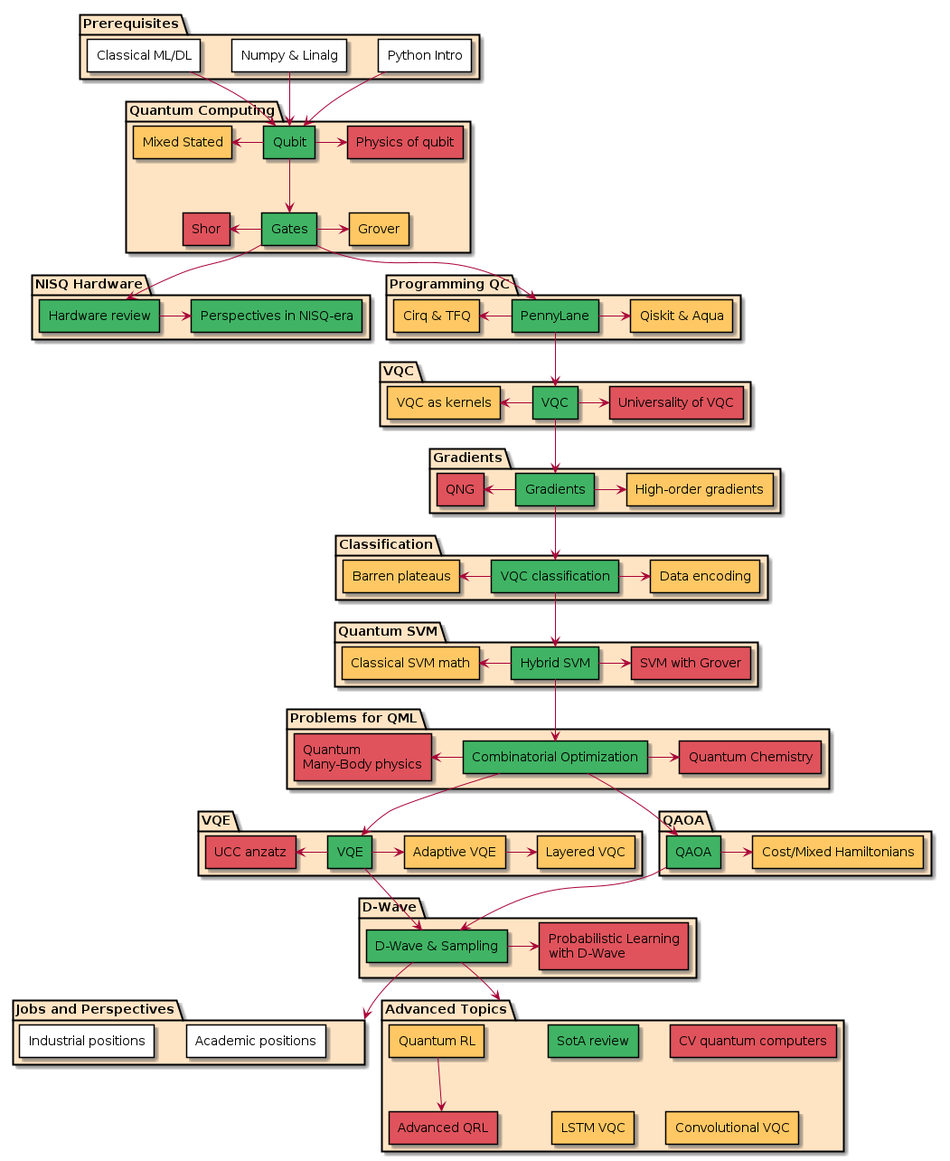
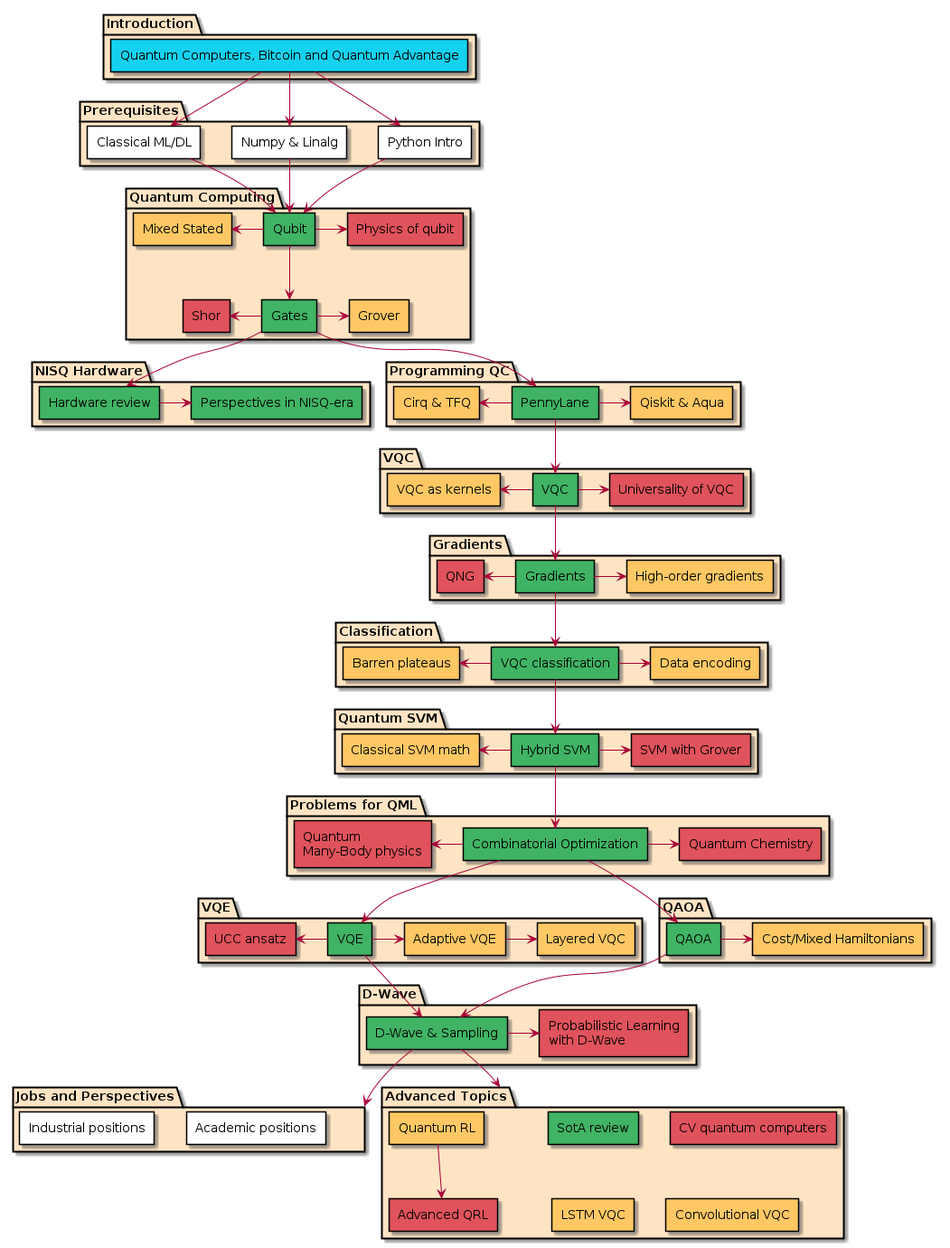
Add intro-lceture-1
Короче лекция должна быть чистым завлекаловом.
В теории, ее же хочется на Хабр, для раскрутки курса.

Я часто бываю на Хабре и слежу кто что спрашивает в комментах про "квантовые"
статьи. Ну и постарался собрать тут популярные ответы, а также максимально
завлечь людей.

По поводу цвета - голубой, так как серый смотрелся уныло. Но все обсуждаемо.

On branch semyonsinchenko-scipop-intro-1
Changes to be committed:

- modified:   qmlcourseRU/_static/index/program.plantuml
- modified:   qmlcourseRU/_static/index/program.png
- new file:   qmlcourseRU/_static/intro1block/intro1/Bitcoin.jpg
- new file:   qmlcourseRU/_static/intro1block/intro1/Feinman.jpg
- new file:   qmlcourseRU/_static/intro1block/intro1/Moores_Law.png
- new file:   qmlcourseRU/_static/intro1block/intro1/Preskill.jpg
- new file:   qmlcourseRU/_static/intro1block/intro1/Salesman.png
- new file:   qmlcourseRU/_static/intro1block/intro1/Schrodinger.jpg
- new file:   qmlcourseRU/_static/intro1block/intro1/quantum_computer.jpg
- modified:   qmlcourseRU/_toc.yml
- modified:   qmlcourseRU/book/acknowledgments.md
- new file:   qmlcourseRU/book/intro1block/intro1.md

diff --git a/qmlcourseRU/book/intro1block/intro1.md b/qmlcourseRU/book/intro1block/intro1.md
@@ -1,0 +1,180 @@
+(intro1)=
+
+# О квантовых компьютерах, биткоине и превосходстве
+
+## Описание лекции
+
+Эта лекция не несет в себе образовательного смысла, а лишь пытается ответить на вопросы, которые обычно возникают у тех, кто впервые сталкивается с темой квантовых вычислений. А именно:
+
+- что это за вычисления такие?
+- зачем вообще это все нужно?
+- и когда взломают биткоин?
+- что за превосходство, о котором все говорят?
+
+## Что это вообще за компьютеры такие?
+
+### Количественная эволюция компьютеров
+
+Сегодня классические компьютеры, построенные на идеях Тьюринга, фон Неймана и Шокли, стали неотъемлемой частью нашей жизни. Все мы привыкли к тому, что с каждым годом наши компьютеры становятся все мощнее и мощнее. И то, что сегодня является бюджетным ноутбуком 15 лет назад было аналогом суперкомпьютера!
+
+```{figure} /_static/intro1block/intro1/Moores_Law.png
+:name: moores_law
+
+Иллюстрация закона Мура &mdash; рост числа транзисторов с 1970-х
+```
+
+Так называемый закGон Мура, сформулированный Гордоном Муром еще в конце 60-х годов, говорит нам о том, что число транзисторов будет удваиваться каждый год. И этот закон стабильно выполняется.
+
+### Качественная эволюция компьютеров
+
+Но, к сожалению, по сугубо физическим причинам, выполнение закона Мура не может длиться вечно &mdash; рано или поздно, но прямое увеличение количества транзисторов станет невозможно. Поэтому сегодня все чаще можно услышать слова о том, что современным компьютеры ждет качественная революция. Кто-то говорит о переходе на новые материалы для изготовления транзисторов. Кто-то говорит о создании транзисторов на новых принципах, например, об оптических компьютерах. Но часто можно услышать слова о том, что следующим революционным прорывом станет создание квантовых компьютеров. О них мы и будем говорить.
+
+### Идея о квантовом компьютере
+
+Сегодня существует несколько версий о том, кто же первым высказал идею о квантовом компьютере. Как это часто бывает, сразу несколько ученых одновременно и независимо пришли к одной и той же идее. Одним из таких ученых был Ричард Фейнман.
+
+```{figure} /_static/intro1block/intro1/Feinman.jpg
+:name: feinman
+
+Ричард Фейнман, 1918-1988
+```
+
+В 1981-м году, когда шло очень активное развитие одновременно классических компьютеров и квантовой механики, он высказал идею о том, что для решения задач квантовой физики нам нужен квантовый компьютер.
+
+### Что это за компьютер такой?
+
+Этот вопрос на самом деле крайне сложный и именно ему будет посвящена первая половина нашего курса. Кажется странным, если вопрос, которому будет посвящено несколько полноценных лекций с формулами можно было бы раскрыть в одном абзаце. Было бы ошибкой пытаться сказать, что обычные компьютеры работают на законах классической физики, а квантовые на основе квантовой механики &mdash; ведь нормально объяснить работу транзистора можно лишь с привлечением уровня Ферми и прочих квантов. Также неправильно было бы говорить о том, что в отличии от классических компьютеров, где есть лишь $0$ и $1$ в квантовых есть все состояния сразу. Ведь ничего не мешает сделать так называемую вероятностную машину Тьюринга, другими словами, классический компьютер, который оперирует многими состояниями сразу. Особенно не хочется сразу сыпать на читателя кучу непонятных терминов, типа квантовой суперпозиции, кубита или запутанности, ведь для тех, кто не знает что такое квантовые компьютеры эти термины, вероятнее всего, тоже ничего не дадут. Для начала, давайте просто условимся, что квантовые компьютеры это, в отличии от фотонных, графеновых, или других перспективных "новых" компьютеров это не только использование новых материалов или технической базы, а еще и использование новой, отличной от заложенной Тьюрингом концепции вычислений, представления и обработки информации.
+
+## А зачем это вообще нужно?
+
+### Комбинаторные и NP-трудные задачи
+
+Помимо уже озвученных проблем с выполнением закона Мура, есть также и другая проблема. А именно то, что существуют задачи, которые скорее всего никогда не получится эффективно решать на классическом компьютере Тьюринга. Даже на фотонном или графеновом. Хороший пример это задача о рюкзаке. Когда у нас есть рюкзак ограниченного объема, а также есть много предметов разного веса и стоимости. И нам надо наполнить наш рюкзак так, чтобы предметы внутри него имели максимальную суммарную стоимость. Задача кажется легкой, но она относится к так называемым [$NP$-полным задачам](https://ru.wikipedia.org/wiki/NP-%D0%BF%D0%BE%D0%BB%D0%BD%D0%B0%D1%8F_%D0%B7%D0%B0%D0%B4%D0%B0%D1%87%D0%B0). Такие задачи, например, в случае большого рюкзака и набора предметов, невозможно точно решить за разумное время.
+
+```{note}
+Здесь я не зря написал "скорее всего". Дело в том, что этот вопрос является одним из [так называемых вопросов тысячилетия](https://ru.wikipedia.org/wiki/%D0%A0%D0%B0%D0%B2%D0%B5%D0%BD%D1%81%D1%82%D0%B2%D0%BE_%D0%BA%D0%BB%D0%B0%D1%81%D1%81%D0%BE%D0%B2_P_%D0%B8_NP). Так, для известной задачи о наполнении рюкзака, мы не занем сегодня эффективного алгоритма решения на классическом компьютере. Но мы также и не можем пока доказать, что такого алгоритма не существует. Ну то есть скорее всего такого алгоритма и правда не существует, а также скорее всего $P \neq NP$, но доказать это пока ни у кого не вышло. Но это скорее лирическое отступление.
+```
+
+Так вот, дело в том, что для квантовых компьютеров уже сегодня известны алгоритмы, которые позволяют решать задачи из класса таких трудно разрешимых на классических компьютерах. Вероятно, самым известным таким алгоритмом является алгоритм Шора, который позволяет эффективно решать задачу факторизации чисел. Этому алгоритму будет посвящена отдельная лекция нашего курса. Ну и сюда же можно отнести ряд задач, которые можно крайне эффективно _приближенно_ решать на квантовом компьютере: задача коммивояжера, задача о рюкзаке, задача кластеризации графа и много других задач комбинаторной оптимизации. В нашем курсе будет целый блок, посвященный таким квантовым алгоритмам как _Variational Quantum Eigensolver_ и _Quantum Approximate Optimization Algorithm_.
+
+```{figure} /_static/intro1block/intro1/Salesman.png
+:name: salesman
+
+Визуализация решения задачи коммивояжера -- кратчайший путь, чтобы объехать 12 немецких городов -- очень важная задача современной логистики
+```
+
+### Симуляция квантовой механики
+
+Это то, ради чего Фейнман предложил создать квантовые компьютеры. Это отдельная большая тема, где много квантовой механики. Ей будет посвящено сразу несколько отдельных лекций нашего курса. Но попробуем объяснить в двух словах, не вдаваясь в детали.
+
+Дело в том, что задачи квантовой механики не получается решать аналитически. Казалось бы, в чем проблема, законы Ньютона уже для трех тел тоже аналитически не решаются, но это не мешает нам летать в космос, ведь такую задачу можно решить _численно_. Но ту приходит вторая проблема, а именно, что явно интегрировать уравнение Шрёдингера по времени, или, по простому, решать квантовую механику _численно_ тоже вычислительно почти невозможно более чем для двух частиц.
+
+```{figure} /_static/intro1block/intro1/Schrodinger.jpg
+:width: 350px
+:name: schrodinger
+
+Эрвин Шрёдингер, 1887-1961, создатель знаменитого уравнения и мема про кота
+```
+
+Казалось бы, что нам с этого. Ведь квантовая механика это удел теоретиков. Но вот проблема, квантовая механика лежит в основе квантовой химии, а та, в свою очередь, лежит в основе вообще всей химии и таких ее прикладных направлений, как создание новых лекарств, разработка новых аккумуляторов для автомобилей Tesla и многого другого. И сегодня мы вынуждены использовать лишь очень приближенные решения и концепции, точности которых часто не хватает.
+
+Квантовые компьютеры в этом случае могут сделать реальный прорыв. Ведь в силу своей физической природы квантовый компьютер идеально подходит для симуляции квантовой механики, а значит и решения столь важных сегодня задач из области разработки лекарств и дизайна новых материалов.
+
+### Машинное обучение и искуственный интеллект
+
+За последние 10-15 лет машинное обучение достигло поистине небывалых высот в своем развитии. Многие задачи, решение которых силами компьютера, раньше казалось невозможным сегодня успешно решаются при помощи машинного обучения. Примеры таких задач это, например, игра в Go, различение пород чихуа-хуа по фотографии, распознавание лиц в видеопотоке, составление относительно осмысленных текстов и генерация картин в стиле Пикассо из простых фотографий. Но оно все еще очень далеко от возможностей человеческого мозга. Так, наиболее масштабные искусственные нейронные сети имеют сегодня порядка 15 миллионов нейронов, в то время как человеческий мозг имеет порядка 85 миллиардов! Вызывает вопросы также и скорость обучения современных нейронных сетей. Так, самые большие языковые модели сегодня обучаются неделями на кластерах из тысяч видеокарт, в то время как человек с его, относительно скромными вычислительными возможностями учится говорить всего 2-3 года.
+
+И тут тоже на помощь могут прийти квантовые компьютеры. В данном случае, квантовые аналоги нейронных сетей, а также их комбинации с классическими нейронными сетями уже сегодня показывают впечатляющие результаты. Так, есть работы, где показано, что 4 квантовых нейрона по своей выразительности эквивалентны классической искусственной нейронной сети с $\sim 250$ нейронами!
+
+Именно квантовому машинному обучению, а также способам его применения и будет посвящена большая часть нашего курса. Мы постараемся рассмотреть все вопросы по этой теме, начиная от теории того, как можно строить квантовые алгоритмы машинного обучения и заканчивая тем, как их можно запрограммировать на современных языках квантового программирования. Если эта тема вам интересна, то этот курс точно для вас!
+
+## Ну и когда взломают биткоин?
+
+Наверное это один из главных вопросов, которые возникают при чтении подобных статей. И ответим сразу: взломают нескоро, времени еще много, 10 лет точно есть.
+
+```{figure} /_static/intro1block/intro1/Bitcoin.jpg
+:width: 400px
+:name: bitcoin
+
+Биткоин, как и многие другие электронные средства вынуждены будут перейти на пост-квантовую криптографию
+```
+
+### Сколько нужно кубит под разные задачи?
+
+Наверное сразу стоит оценить тот размер, который квантовый компьютер должен иметь для эффективного решения описанных выше задач. Примерно цифры такие:
+
+- Алгоритм Шора и взлом современной криптографии (включая биткоин): $\sim 20\cdot 10^6$ (20 миллионов) кубит
+- Задачи оптимизации: $\sim 100 \cdot 10^3$ (10 тысяч) кубит
+- Первые полезные задачи в квантовой химии: $\sim 1\cdot 10^3$ (1 тысяча) кубит
+- Квантовое машинное обучение: $\sim 100-500$ кубит
+
+Это кстати одна из причин, почему наш курс посвящен по большей части именно квантовому машинному обучению.
+
+### Логические vs Физические кубиты
+
+Есть еще такая проблема, что вся квантовая механика вероятностная. А еще, что квантовые компьютеры работают в области микромира и очень чувствительны к любым шумам извне. Это ведет к совершенно недопустимому уровню ошибок в вычислениях и их низкой детерминированности. Например, сегодня хорошим уровнем точности для квантовых компьютеров является 99% на одну операцию. Но ведь каждый алгоритм включает в себя сотни или даже тысячи операций! И тогда уровень ошибок становится совсем печальным.
+
+Но есть и хорошие новости. Сегодня существует очень много классных алгоритмов коррекции ошибок, которые позволяют используя несколько физических кубит с высоким уровнем ошибок создать один логический кубит, имеющий очень низкий уровень ошибок. То есть программист будет писать код, который производит операции над одним кубитом, а на физическом уровне это будет операция над несколькими кубитами. В общем вопрос вполне решаемый. Вот только для создания одного качественного логического кубита может потребоваться до тысячи физических кубит! А те оценки, которые мы привели выше, они как раз про логические кубиты, то есть кубиты с очень высокой точностью операций на уровне классических компьютеров.
+
+### Сколько кубит есть сегодня?
+
+Скажем сразу, сегодня уже существуют квантовые компьютеры. Вот только все производители, когда пишут о новом рекорде, имеют ввиду чаще всего именно физические кубиты.
+
+```{figure} /_static/intro1block/intro1/quantum_computer.jpg
+:width: 350px
+:name: qc
+
+Квантовый компьютер компании IMB выглядит примерно так
+```
+
+Есть квантовые компьютеры с разной архитектурой. Одни имеют больше кубит, но и более высокий уровень ошибок. Другие имеют низкий урвоень ошибок, но их трудно масштабировать. Теме квантового железа в нашем курсе будет посвящен отдельный блок из нескольких лекций. Но если кратко, то можно назвать примерно такие цифры:
+
+- рекорд в относительно легко масштабируемых, но шумных квантовых компьютерах это $\sim 55$ кубит
+- рекорд в относительно точных, но медленных и плохо масштабируемых компьютерах это $\sim 20$ кубит
+- рекорд в точных и масштабируемых, но очень трудно программируемых компьютерах это $\sim 25$ кубит
+
+```{note}
+Тут мы имеем ввиду соотвественно:
+- сверхпроводящие кубиты, которые сегодня проще всего масштабировать
+- ионы в ловушках, которые имеют одну из самых высоких точностей
+- фотоны, которые вроде всем хороши, кроме того, что на них программирование это юстировка линз и лазеров на оптическом столе
+```
+
+### Какие планы имеют ведущие игроки на этом рынке?
+
+Казалось бы, с такими масштабами биткоину боятся нечего, да и в целом область выглядит не самой перспективной. Но есть один нюанс. Все крупные игроки на рынке создания квантовых компьютеров (_Google Quantum_, _IBM Quantum_, _IonQ_, _Xanadu_) озвучили планы к 2030-му году иметь порядка одного миллиона физических кубит, что эквивалентно порядка тысяче логических кубит. Для криптографии это еще не страшно, но вот многие полезные задачи уже можно будет попробовать решать. Ну и стоит еще раз посмотреть на график закона Мура для классических компьютеров, которые каждые десять лет показывают примерно такой же прогресс!
+
+## О квантовом превосходстве
+
+Очень часто можно услышать разговоры о том, что достигнуто или опровергнуто квантовое превосходство. Попробуем под конец лекции разобраться, что же это такое и почему это важно (или не важно).
+
+### Понятие квантового превосходства
+
+Само понятие было сформулировано еще в 2012-м году известным физиком теоретиком Джоном Прескиллом.
+
+```{figure} /_static/intro1block/intro1/Preskill.jpg
+:width: 350px
+:name: preskill
+
+Джон Прескил, который и придумал этот термин. Еще он известен своим знаменитым пари с другим физиком Стивеном Хокингом (которое Хокинг проиграл)
+```
+
+Квантовое превосходство это решение на квантовом компьютере задачи, которую нельзя решить на классическом компьютере за разумное время (10 тысяч лет разумным временем не считается). Достижение квантового превосходства это однозначно новый уровень в развитии квантовых вычислений. Но есть один подвох. Дело в том, что речь идет о совершенно любой задаче, независимо от того, насколько она полезна или бесполезна.
+
+Так что когда кто-то заявляет о достижении квантового превосходства, то это важный повод в среде ученых и разработчиков квантовых компьютеров, но скорее всего это очень малозначимый факт, с точки зрения простого обывателя.
+
+### Хронология событий
+
+Ну и в конце приводим краткую хронологию событий.
+
+- 2019 год, компания _Google_ заявляет о достижении квантового превосходства. Задача выбрана максимально удобная для квантового компьютера и полностью лишенная практического смысла. По словам разработчиков из _Google_ их квантовый компьютер за 4 минуты решил задачу, которую классический суперкомпьютер решал бы 10 тысяч лет. Их квантовый компьютер имел 54 кубита;
+- 2019 год, компания _IBM_ заявляет, что _Google_ не учли, что их задачу можно решать на классическом компьютере более оптимально, но без экспериментов;
+- 2020 год, компания _Alibaba_ реализует алгоритм _IBM_ на своем суперкомпьютере и решает задачу за $\sim 20$ дней;
+- 2021 год, группа китайских ученых оптимизирует классический алгоритм и решает задачу на 60 видеокартах _NVIDIA_ за 7 дней;
+- 2021 год, группа других китайских ученых заявляет, что достигла нового превосходства на квантовом компьютере из 56 кубит;
+
+В общем сейчас идет довольно интересный процесс войны меча и щита. Пока одни ученые строят более мощные квантовые компьютеры, другие придумывают более продвинутые алгоритмы их симуляции. Хотя конечно все ученые говорят, что уже где-то на 60-70 кубитах эта история окончательно закончится в пользу квантовых компьютеров.
+
+## Заключение
+
+Это вводная лекция, она не даст вам каких-то особых знаний. Скорее, ее цель заинтересовать читателя. Самое интересное будет в основной части курса, где мы будем разбирать квантовые алгоритмы, пытаться симулироват квантовую механику и обучать самые настоящие квантовые нейросети! Ждем вас на курсе!

diff --git a/qmlcourseRU/book/acknowledgments.md b/qmlcourseRU/book/acknowledgments.md
@@ -5,4 +5,3 @@
 Команда курса выражает благодарность:
 
 - сообществу [Open Data Science](https://ods.ai) за предоставление платформы для размещения курса и техническую поддержку;
-- компании [Raiffeisenbank Russia](https://www.raiffeisen.ru/) за помощь в записи и монтировании видеолекций.
